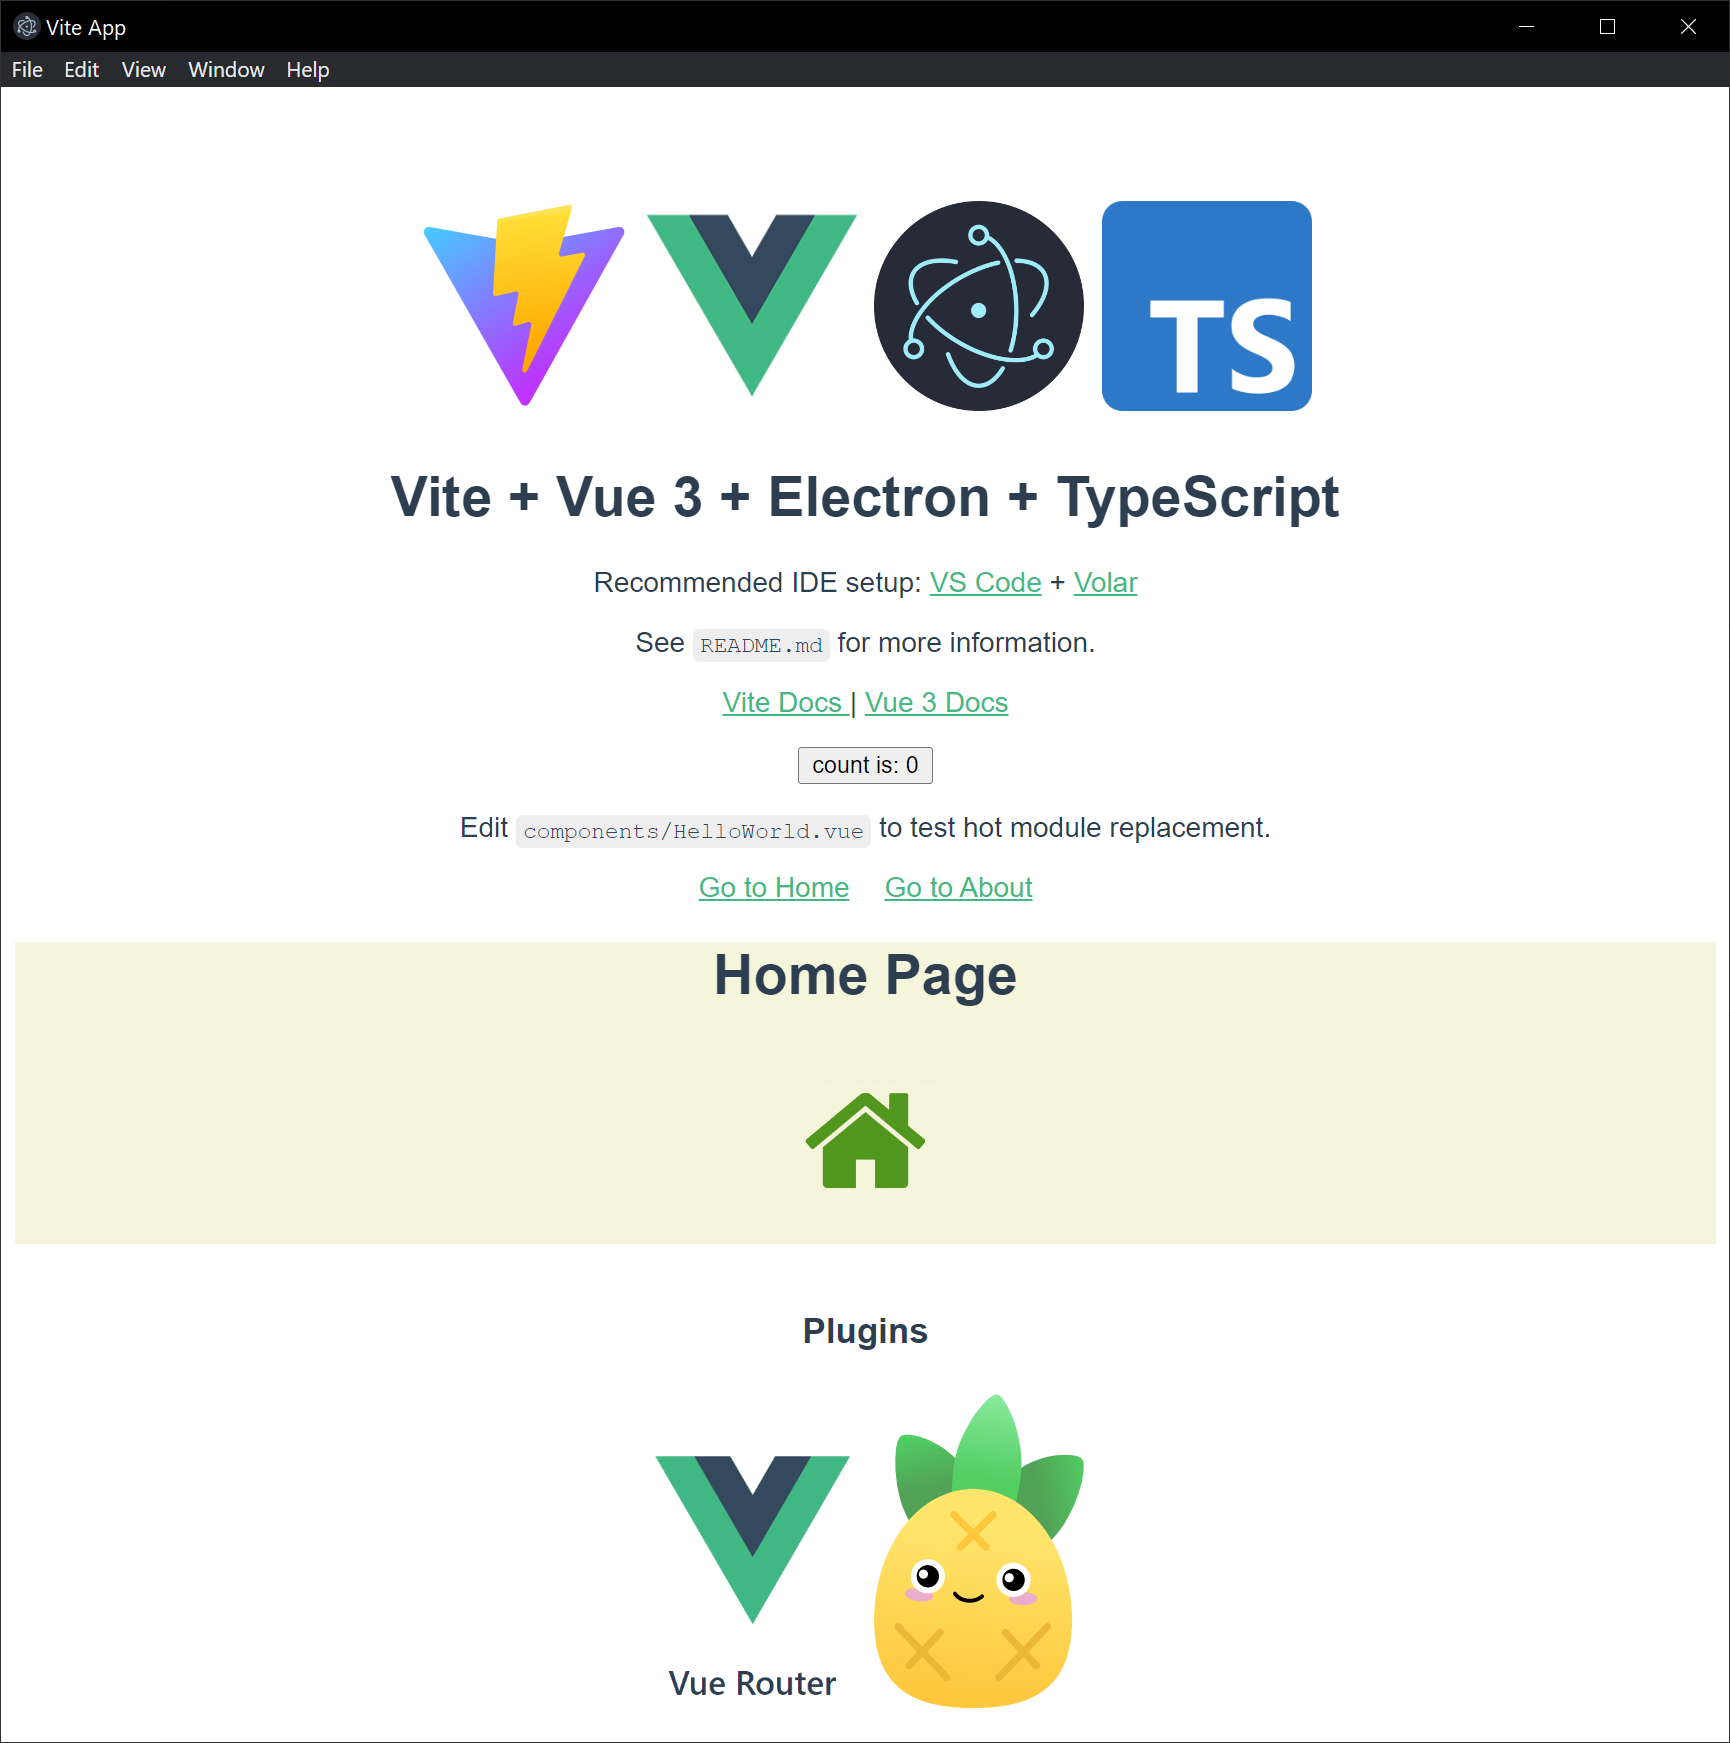
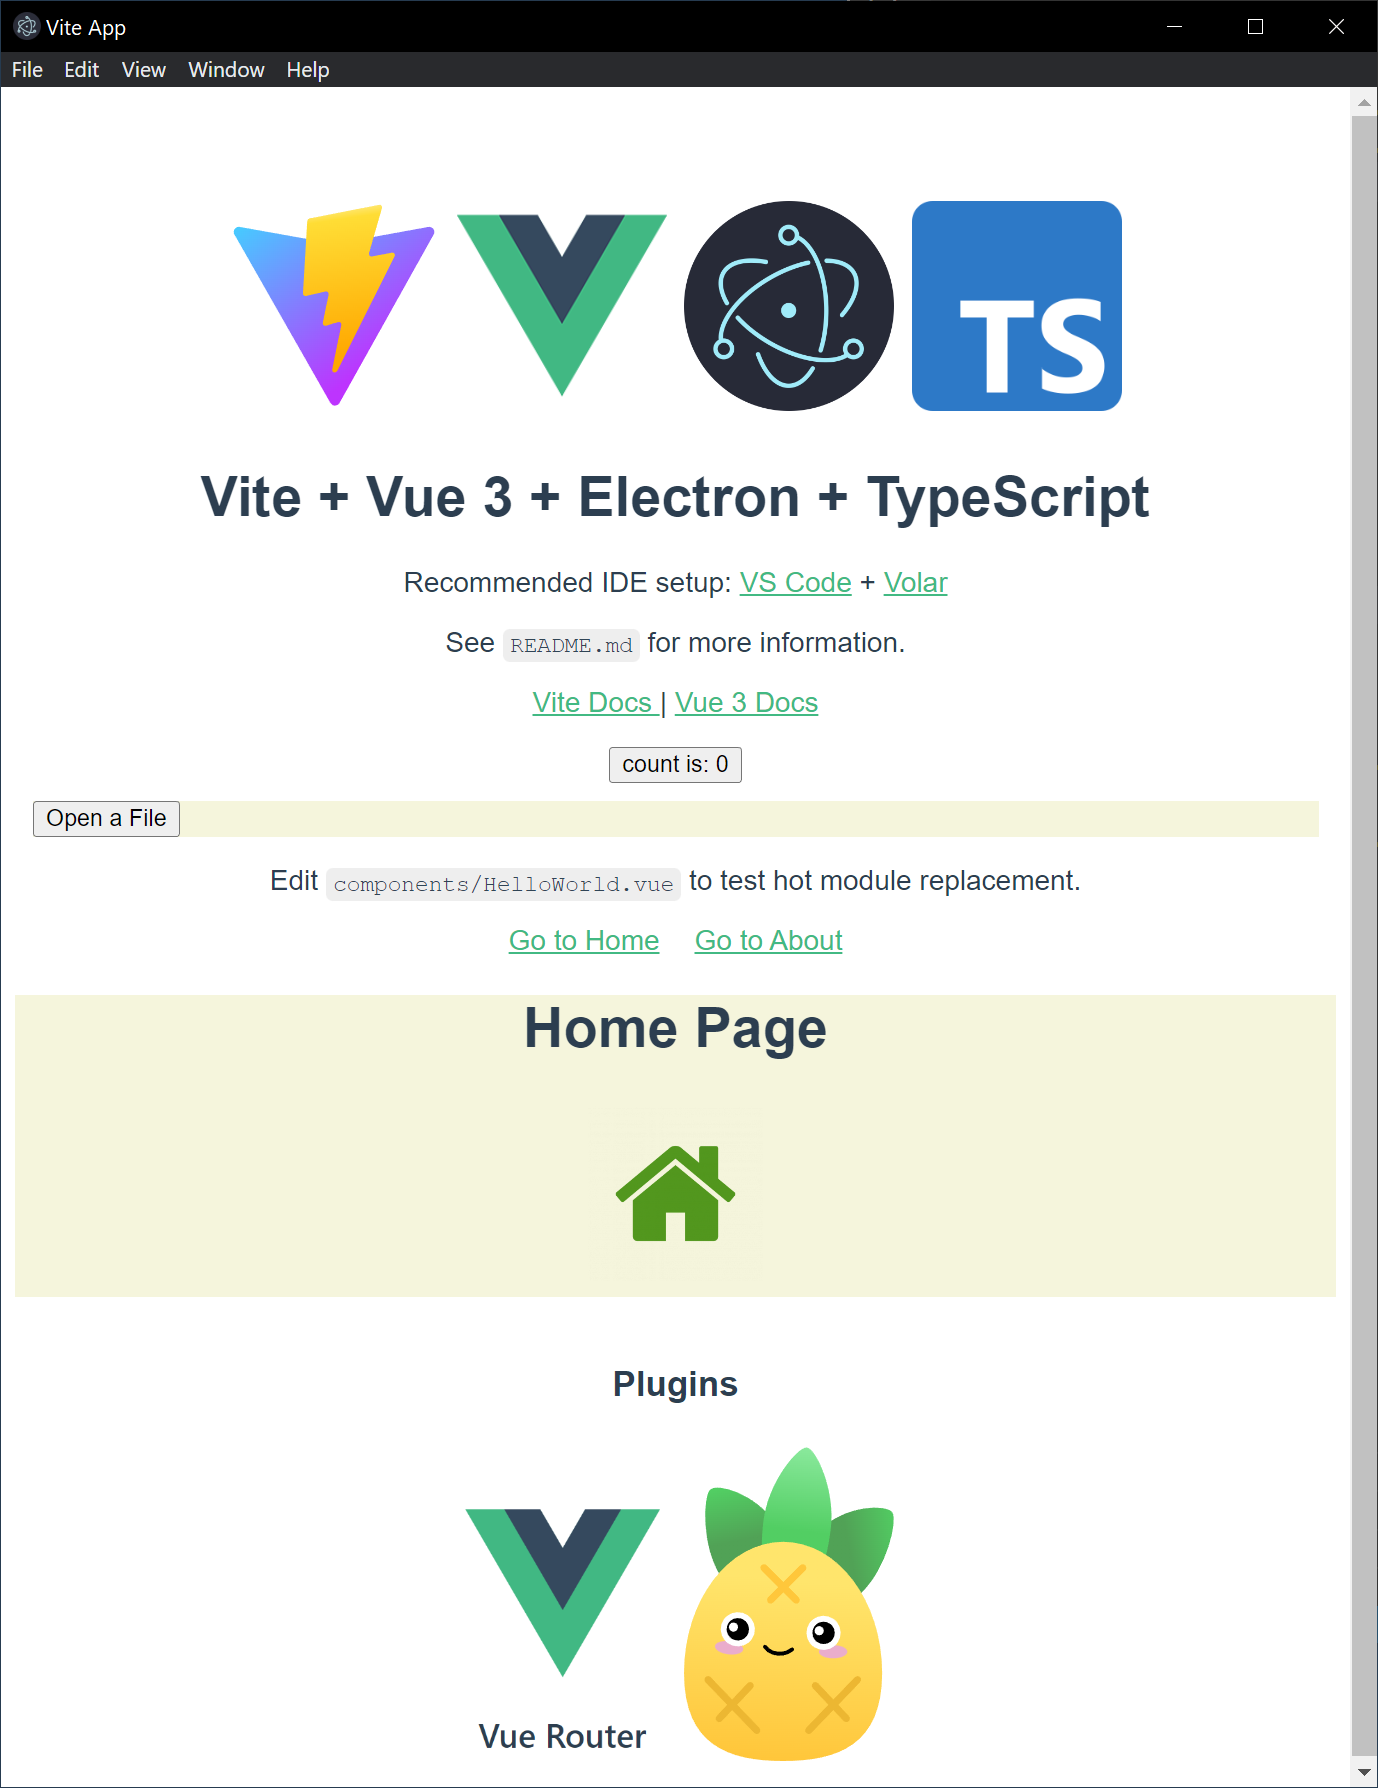
add a demo for open file use electron

Changed region(s): [[0.0, 0.031, 1.0, 1.0], [0.0, 0.0, 0.2496, 0.062], [0.3433, 0.9604, 0.4681, 0.9914]]

diff --git a/src/electron/preload/preload.ts b/src/electron/preload/preload.ts
@@ -1,12 +1,17 @@
 // All of the Node.js APIs are available in the preload process.
 // It has the same sandbox as a Chrome extension.
+import { contextBridge, ipcRenderer } from 'electron'
 window.addEventListener('DOMContentLoaded', () => {
-    const replaceText = (selector:any, text:any) => {
-      const element = document.getElementById(selector)
-      if (element) element.innerText = text
-    }
+  const replaceText = (selector: any, text: any) => {
+    const element = document.getElementById(selector)
+    if (element) element.innerText = text
+  }
 
-    for (const dependency of ['chrome', 'node', 'electron']) {
-      replaceText(`${dependency}-version`, process.versions[dependency])
-    }
-  })
+  for (const dependency of ['chrome', 'node', 'electron']) {
+    replaceText(`${dependency}-version`, process.versions[dependency])
+  }
+})
+
+contextBridge.exposeInMainWorld('electronAPI', {
+  openFile: () => ipcRenderer.invoke('dialog:openFile')
+})

diff --git a/src/components/HelloWorld.vue b/src/components/HelloWorld.vue
@@ -5,6 +5,11 @@ import { useCounterStore } from "../store/counter";
 defineProps<{ msg: string }>();
 
 const { count } = storeToRefs(useCounterStore());
+const filePath = ref(null);
+const openFile = async () => {
+  //@ts-ignore
+  filePath.value = await window.electronAPI.openFile();
+};
 </script>
 
 <template>
@@ -26,6 +31,11 @@ const { count } = storeToRefs(useCounterStore());
   </p>
 
   <button type="button" @click="count++">count is: {{ count }}</button>
+  <div id="examples">
+    <button type="button" @click="openFile()">Open a File</button>
+    <p v-if="filePath">File Path: {{ filePath }}</p>
+  </div>
+
   <p>
     Edit
     <code>components/HelloWorld.vue</code> to test hot module replacement.
@@ -60,5 +70,10 @@ code {
 }
 .routerlink {
   margin: 0 10px;
+}
+#examples {
+  margin: 10px;
+  display: flex;
+  background-color: beige;
 }
 </style>

diff --git a/src/electron/main/main.ts b/src/electron/main/main.ts
@@ -1,10 +1,19 @@
 import { join } from 'path';
 import {
     app,
-    BrowserWindow
+    BrowserWindow,
+    ipcMain,
+    dialog
 } from 'electron';
 
 const isDev = process.env.npm_lifecycle_event === "app:dev" ? true : false;
+
+async function handleFileOpen() {
+    const { canceled, filePaths } = await dialog.showOpenDialog({ title: "Open File" })
+    if (!canceled) {
+        return filePaths[0]
+    }
+}
 
 function createWindow() {
     // Create the browser window.
@@ -34,6 +43,7 @@ function createWindow() {
 // initialization and is ready to create browser windows.
 // Some APIs can only be used after this event occurs.
 app.whenReady().then(() => {
+    ipcMain.handle('dialog:openFile', handleFileOpen)
     createWindow()
     app.on('activate', function () {
         // On macOS it's common to re-create a window in the app when the
